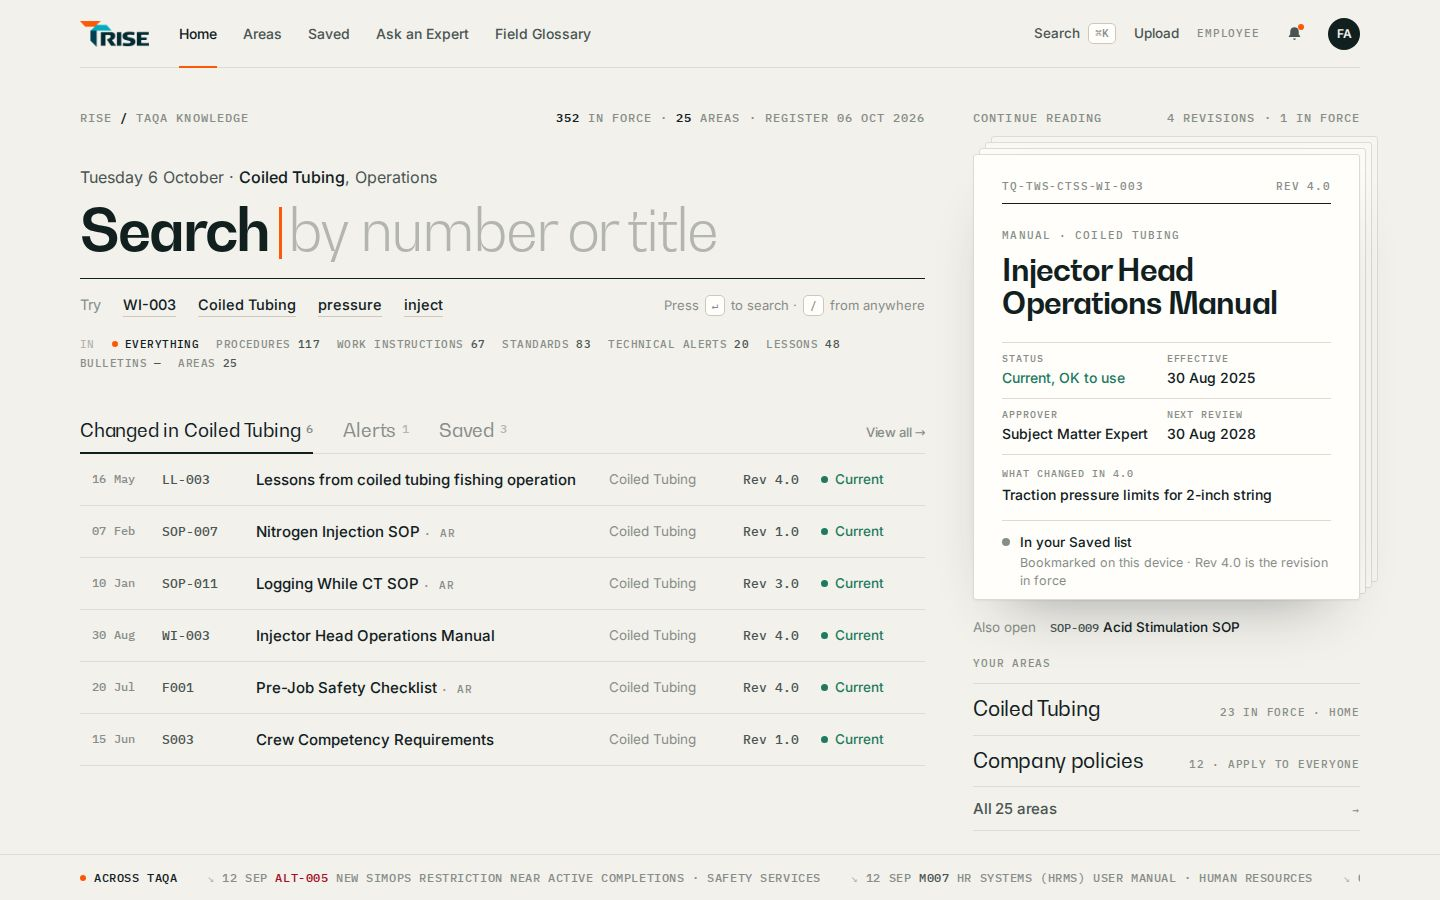
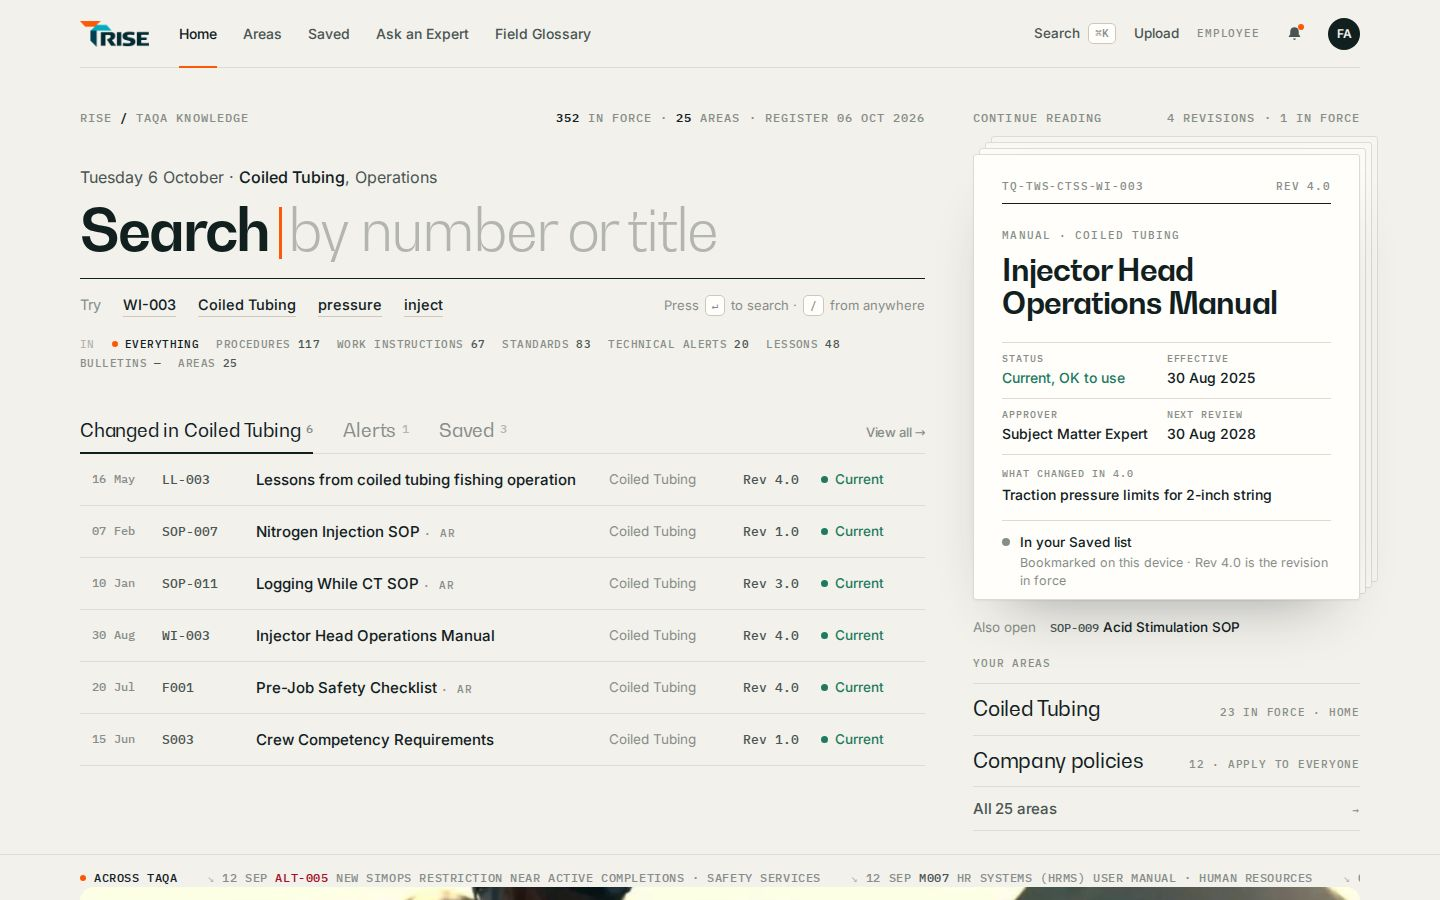
RISE Register: Home keeps one photo only (exploration)
Removes the families section from Home and adds a single TAQA photo band
under the approved composition, as requested.

Claude-Session: https://claude.ai/code/session_01SsmAy64nNwXThAWKPA8c7n

Changed region(s): [[0.6875, 0.9644, 0.9375, 1.0], [0.2812, 0.9644, 0.4375, 1.0]]

diff --git a/docs/design/rise-exploration/register/pages/home-director.html b/docs/design/rise-exploration/register/pages/home-director.html
@@ -62,18 +62,7 @@
     <p class="help">Stuck? <a href="ask.html">Ask an Expert</a> or look up a term in the <a href="glossary.html">Field Glossary</a>.</p>
   </aside>
   <footer class="foot" aria-label="Recently published across TAQA"><div class="wrap"><span class="h">Across TAQA</span><span class="it"><span class="ar">↘</span> 16 Sep <b>SOP-017</b> Bit Change SOP · Drilling Services</span><span class="it"><span class="ar">↘</span> 12 Sep <b class=x>ALT-005</b> New SIMOPS restriction near active completions · Safety Services</span><span class="it"><span class="ar">↘</span> 12 Sep <b>M007</b> HR Systems (HRMS) User Manual · Human Resources</span><span class="it"><span class="ar">↘</span> 07 Sep <b>SOP-002</b> Access Control Request Procedure · Governance, Risk & Compliance</span><span class="it"><span class="ar">↘</span> 01 Sep <b>M003</b> Identity & Access Management Standard · Governance, Risk & Compliance</span></div></footer>
-</div><section class="explore"><div class="exh"><span class="lab">Explore TAQA</span><h2>Three families, <span>twenty-five areas.</span></h2><a class="lnk" href="areas.html">All areas →</a></div>
-<a class="polline" href="seg-company.html"><span class="lab">Company Wide</span><b>Company policies</b><span class="n">12 policies · signed by the CEO</span><span class="go">→</span></a>
-<article class="famrow"><div class="ft"><p class="rline"><b>11 areas</b><span>268 documents</span><span class="al">21 active alerts</span></p>
-  <h3><a href="areas.html#segment">Operational segments</a></h3><p class="fsb">The business: service lines that deliver the work.</p>
-  <p class="fa"><a href="seg-drilling.html">Drilling Services</a> · <a href="seg-well-safety.html">Safety Services</a> · <a href="seg-fracturing.html">Fracturing</a> <a class="more" href="areas.html#segment">and 8 more →</a></p><span class="yours">Your area: <a href="seg-coiled-tubing.html">Coiled Tubing</a></span></div>
-  <figure class="plate "><img src="../img/taqa-hero-5.jpeg" alt="Coiled tubing control cabin" loading="lazy"><figcaption>Coiled tubing control cabin</figcaption></figure></article><article class="famrow"><div class="ft"><p class="rline"><b>10 areas</b><span>120 documents</span><span class="al">5 active alerts</span></p>
-  <h3><a href="areas.html#function">Corporate functions</a></h3><p class="fsb">The functions that run the company.</p>
-  <p class="fa"><a href="seg-qhse.html">QHSE</a> · <a href="seg-cybersecurity.html">Governance, Risk & Compliance</a> · <a href="seg-hr.html">Human Resources</a> <a class="more" href="areas.html#function">and 7 more →</a></p></div>
-  <figure class="plate "><img src="../img/taqa-hero-3.jpeg" alt="Inspection in the workshop" loading="lazy"><figcaption>Inspection in the workshop</figcaption></figure></article><article class="famrow"><div class="ft"><p class="rline"><b>3 areas</b><span>23 documents</span><span class="al">2 active alerts</span></p>
-  <h3><a href="areas.html#product">Products & Technology</a></h3><p class="fsb">Centres of Excellence, the technical home of each discipline.</p>
-  <p class="fa"><a href="seg-pt-drilling-coe.html">Drilling Solutions</a> · <a href="seg-pt-intervention-coe.html">Well Intervention</a> · <a href="seg-pt-completions-coe.html">Well Completions</a></p></div>
-  <figure class="plate "><img src="../img/product-centre.webp" alt="Precision parts, checked by hand" loading="lazy"><figcaption>Precision parts, checked by hand</figcaption></figure></article></section>
+</div><figure class="hband"><img src="../img/taqa-hero.webp" alt="TAQA crew on site"><figcaption><span>TAQA · Knowledge is better together</span><a href="areas.html">All 25 areas →</a></figcaption></figure>
 <div class="page-end"></div>
 </main>
 <nav class="dock" aria-label="Main"><a href="home.html" class=on aria-current=page><svg class="" viewBox="0 0 24 24" aria-hidden="true"><path fill="currentColor" d="M4 10.5 12 4l8 6.5V20h-5.5v-5.5h-5V20H4z"/></svg>Home</a><a href="search.html"><svg class="" viewBox="0 0 24 24" aria-hidden="true"><path fill="currentColor" d="M10.5 4a6.5 6.5 0 0 1 5.2 10.4l4.4 4.4-1.4 1.4-4.4-4.4A6.5 6.5 0 1 1 10.5 4zm0 2a4.5 4.5 0 1 0 0 9 4.5 4.5 0 0 0 0-9z"/></svg>Search</a><a href="areas.html"><svg class="" viewBox="0 0 24 24" aria-hidden="true"><path fill="currentColor" d="M4 4h7v7H4zm9 0h7v7h-7zM4 13h7v7H4zm9 0h7v7h-7z"/></svg>Areas</a><a href="saved.html"><svg class="" viewBox="0 0 24 24" aria-hidden="true"><path fill="currentColor" d="M6 3h12v18l-6-4.2L6 21z"/></svg>Saved</a><a href="more-director.html"><svg class="" viewBox="0 0 24 24" aria-hidden="true"><path fill="currentColor" d="M4 6h16v2H4zm0 5h16v2H4zm0 5h16v2H4z"/></svg>More<i class=n></i></a></nav>

diff --git a/docs/design/rise-exploration/register/pages/home.html b/docs/design/rise-exploration/register/pages/home.html
@@ -62,18 +62,7 @@
     <p class="help">Stuck? <a href="ask.html">Ask an Expert</a> or look up a term in the <a href="glossary.html">Field Glossary</a>.</p>
   </aside>
   <footer class="foot" aria-label="Recently published across TAQA"><div class="wrap"><span class="h">Across TAQA</span><span class="it"><span class="ar">↘</span> 12 Sep <b class=x>ALT-005</b> New SIMOPS restriction near active completions · Safety Services</span><span class="it"><span class="ar">↘</span> 12 Sep <b>M007</b> HR Systems (HRMS) User Manual · Human Resources</span><span class="it"><span class="ar">↘</span> 07 Sep <b>SOP-002</b> Access Control Request Procedure · Governance, Risk & Compliance</span><span class="it"><span class="ar">↘</span> 29 Aug <b>LL-003</b> Recruitment timeline reduction, structured interview process adopted · Human Resources</span><span class="it"><span class="ar">↘</span> 28 Aug <b>S005</b> Waste Management Standard · QHSE</span></div></footer>
-</div><section class="explore"><div class="exh"><span class="lab">Explore TAQA</span><h2>Three families, <span>twenty-five areas.</span></h2><a class="lnk" href="areas.html">All areas →</a></div>
-<a class="polline" href="seg-company.html"><span class="lab">Company Wide</span><b>Company policies</b><span class="n">12 policies · signed by the CEO</span><span class="go">→</span></a>
-<article class="famrow"><div class="ft"><p class="rline"><b>11 areas</b><span>212 documents</span><span class="al">15 active alerts</span></p>
-  <h3><a href="areas.html#segment">Operational segments</a></h3><p class="fsb">The business: service lines that deliver the work.</p>
-  <p class="fa"><a href="seg-well-safety.html">Safety Services</a> · <a href="seg-drilling.html">Drilling Services</a> · <a href="seg-fracturing.html">Fracturing</a> <a class="more" href="areas.html#segment">and 8 more →</a></p><span class="yours">Your area: <a href="seg-coiled-tubing.html">Coiled Tubing</a></span></div>
-  <figure class="plate "><img src="../img/taqa-hero-5.jpeg" alt="Coiled tubing control cabin" loading="lazy"><figcaption>Coiled tubing control cabin</figcaption></figure></article><article class="famrow"><div class="ft"><p class="rline"><b>10 areas</b><span>105 documents</span><span class="al">3 active alerts</span></p>
-  <h3><a href="areas.html#function">Corporate functions</a></h3><p class="fsb">The functions that run the company.</p>
-  <p class="fa"><a href="seg-qhse.html">QHSE</a> · <a href="seg-hr.html">Human Resources</a> · <a href="seg-cybersecurity.html">Governance, Risk & Compliance</a> <a class="more" href="areas.html#function">and 7 more →</a></p></div>
-  <figure class="plate "><img src="../img/taqa-hero-3.jpeg" alt="Inspection in the workshop" loading="lazy"><figcaption>Inspection in the workshop</figcaption></figure></article><article class="famrow"><div class="ft"><p class="rline"><b>3 areas</b><span>23 documents</span><span class="al">2 active alerts</span></p>
-  <h3><a href="areas.html#product">Products & Technology</a></h3><p class="fsb">Centres of Excellence, the technical home of each discipline.</p>
-  <p class="fa"><a href="seg-pt-drilling-coe.html">Drilling Solutions</a> · <a href="seg-pt-intervention-coe.html">Well Intervention</a> · <a href="seg-pt-completions-coe.html">Well Completions</a></p></div>
-  <figure class="plate "><img src="../img/product-centre.webp" alt="Precision parts, checked by hand" loading="lazy"><figcaption>Precision parts, checked by hand</figcaption></figure></article></section>
+</div><figure class="hband"><img src="../img/taqa-hero.webp" alt="TAQA crew on site"><figcaption><span>TAQA · Knowledge is better together</span><a href="areas.html">All 25 areas →</a></figcaption></figure>
 <div class="page-end"></div>
 </main>
 <nav class="dock" aria-label="Main"><a href="home.html" class=on aria-current=page><svg class="" viewBox="0 0 24 24" aria-hidden="true"><path fill="currentColor" d="M4 10.5 12 4l8 6.5V20h-5.5v-5.5h-5V20H4z"/></svg>Home</a><a href="search.html"><svg class="" viewBox="0 0 24 24" aria-hidden="true"><path fill="currentColor" d="M10.5 4a6.5 6.5 0 0 1 5.2 10.4l4.4 4.4-1.4 1.4-4.4-4.4A6.5 6.5 0 1 1 10.5 4zm0 2a4.5 4.5 0 1 0 0 9 4.5 4.5 0 0 0 0-9z"/></svg>Search</a><a href="areas.html"><svg class="" viewBox="0 0 24 24" aria-hidden="true"><path fill="currentColor" d="M4 4h7v7H4zm9 0h7v7h-7zM4 13h7v7H4zm9 0h7v7h-7z"/></svg>Areas</a><a href="saved.html"><svg class="" viewBox="0 0 24 24" aria-hidden="true"><path fill="currentColor" d="M6 3h12v18l-6-4.2L6 21z"/></svg>Saved</a><a href="more.html"><svg class="" viewBox="0 0 24 24" aria-hidden="true"><path fill="currentColor" d="M4 6h16v2H4zm0 5h16v2H4zm0 5h16v2H4z"/></svg>More</a></nav>

diff --git a/docs/design/rise-exploration/register/css/register.css b/docs/design/rise-exploration/register/css/register.css
@@ -1107,3 +1107,10 @@ kbd{font:500 11px/1 var(--mono);padding:4px 6px;border:1px solid var(--rule2);bo
   .sl-hero .mark.ph{display:flex;justify-items:start}
   .sl-hero .mark.ph .plate{display:none}
 }
+
+/* Home: one photo, nothing more */
+.hband{margin:56px 0 0;border-radius:14px;overflow:hidden;position:relative}
+.hband img{display:block;width:100%;height:340px;object-fit:cover;object-position:center 35%;max-width:100%}
+.hband figcaption{display:flex;justify-content:space-between;gap:16px;padding:14px 0 0;font:500 11.5px/1.3 var(--mono);letter-spacing:.08em;text-transform:uppercase;color:var(--ink3)}
+.hband figcaption a{color:var(--ink)}
+@media (max-width:720px){.hband{margin-top:36px;border-radius:12px}.hband img{height:200px}}

diff --git a/docs/design/rise-exploration/register/build/b_home.py b/docs/design/rise-exploration/register/build/b_home.py
@@ -60,7 +60,7 @@ def home(role, name, desk_line=''):
   </aside>
   <footer class="foot" aria-label="Recently published across TAQA"><div class="wrap"><span class="h">Across TAQA</span>{tick}</div></footer>
 </div>'''
-    body += explore(role)
+    body += '''<figure class="hband"><img src="../img/taqa-hero.webp" alt="TAQA crew on site"><figcaption><span>TAQA · Knowledge is better together</span><a href="areas.html">All 25 areas →</a></figcaption></figure>'''
     page(name, 'RISE · Home', body, 'home', role, script=SCRIPT)
     return len(vis), len(ct)
 
